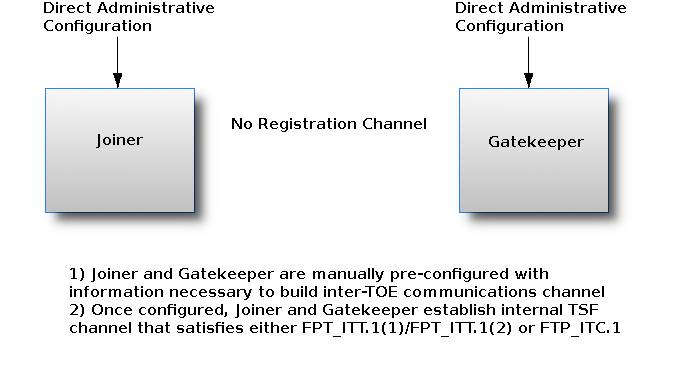
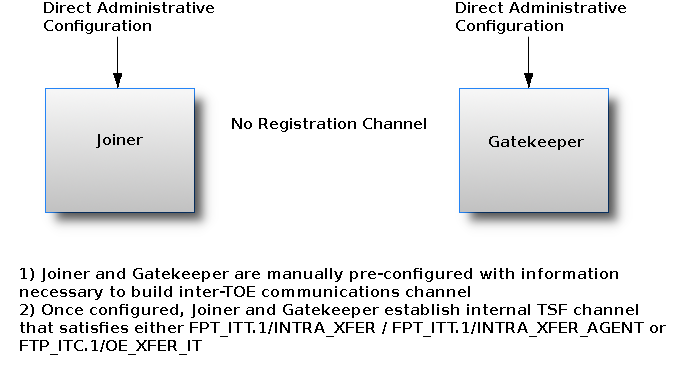
Deploying to gh-pages from @ commoncriteria/mdm@f1873a9c75e848fba1cbda62e35934ec57a72ae4 🚀

Changed region(s): [[0.0307, 0.704, 0.9839, 0.9387]]

diff --git a/index.html b/index.html
@@ -1,5 +1,5 @@
 <html><head><title>Listing</title></head><body>
-Wed May 13 17:24:09 UTC 2026
+Wed May 13 17:28:53 UTC 2026
 <br/><ol>
 <li><a href='.'>.</a></li>
 <li><a href='./test/meta-info.txt'>./test/meta-info.txt</a></li>
@@ -291,9 +291,9 @@ Wed May 13 17:24:09 UTC 2026
 <li><a href='./subordinateMDM/css/diff.css'>./subordinateMDM/css/diff.css</a></li>
 <li><a href='./subordinateMDM/spell-badge.svg'>./subordinateMDM/spell-badge.svg</a></li>
 <li><a href='./.git'>./.git</a></li>
-<li><a href='./.git/objects/pack/pack-9f84594a126c2a0cc06d85eebf9a8ba8796a546d.pack'>./.git/objects/pack/pack-9f84594a126c2a0cc06d85eebf9a8ba8796a546d.pack</a></li>
-<li><a href='./.git/objects/pack/pack-9f84594a126c2a0cc06d85eebf9a8ba8796a546d.idx'>./.git/objects/pack/pack-9f84594a126c2a0cc06d85eebf9a8ba8796a546d.idx</a></li>
-<li><a href='./.git/objects/pack/pack-9f84594a126c2a0cc06d85eebf9a8ba8796a546d.rev'>./.git/objects/pack/pack-9f84594a126c2a0cc06d85eebf9a8ba8796a546d.rev</a></li>
+<li><a href='./.git/objects/pack/pack-ed4086ca175d4ed06c97af9980bc0353ff23050b.pack'>./.git/objects/pack/pack-ed4086ca175d4ed06c97af9980bc0353ff23050b.pack</a></li>
+<li><a href='./.git/objects/pack/pack-ed4086ca175d4ed06c97af9980bc0353ff23050b.idx'>./.git/objects/pack/pack-ed4086ca175d4ed06c97af9980bc0353ff23050b.idx</a></li>
+<li><a href='./.git/objects/pack/pack-ed4086ca175d4ed06c97af9980bc0353ff23050b.rev'>./.git/objects/pack/pack-ed4086ca175d4ed06c97af9980bc0353ff23050b.rev</a></li>
 <li><a href='./.git/hooks/pre-push.sample'>./.git/hooks/pre-push.sample</a></li>
 <li><a href='./.git/hooks/pre-receive.sample'>./.git/hooks/pre-receive.sample</a></li>
 <li><a href='./.git/hooks/pre-merge-commit.sample'>./.git/hooks/pre-merge-commit.sample</a></li>